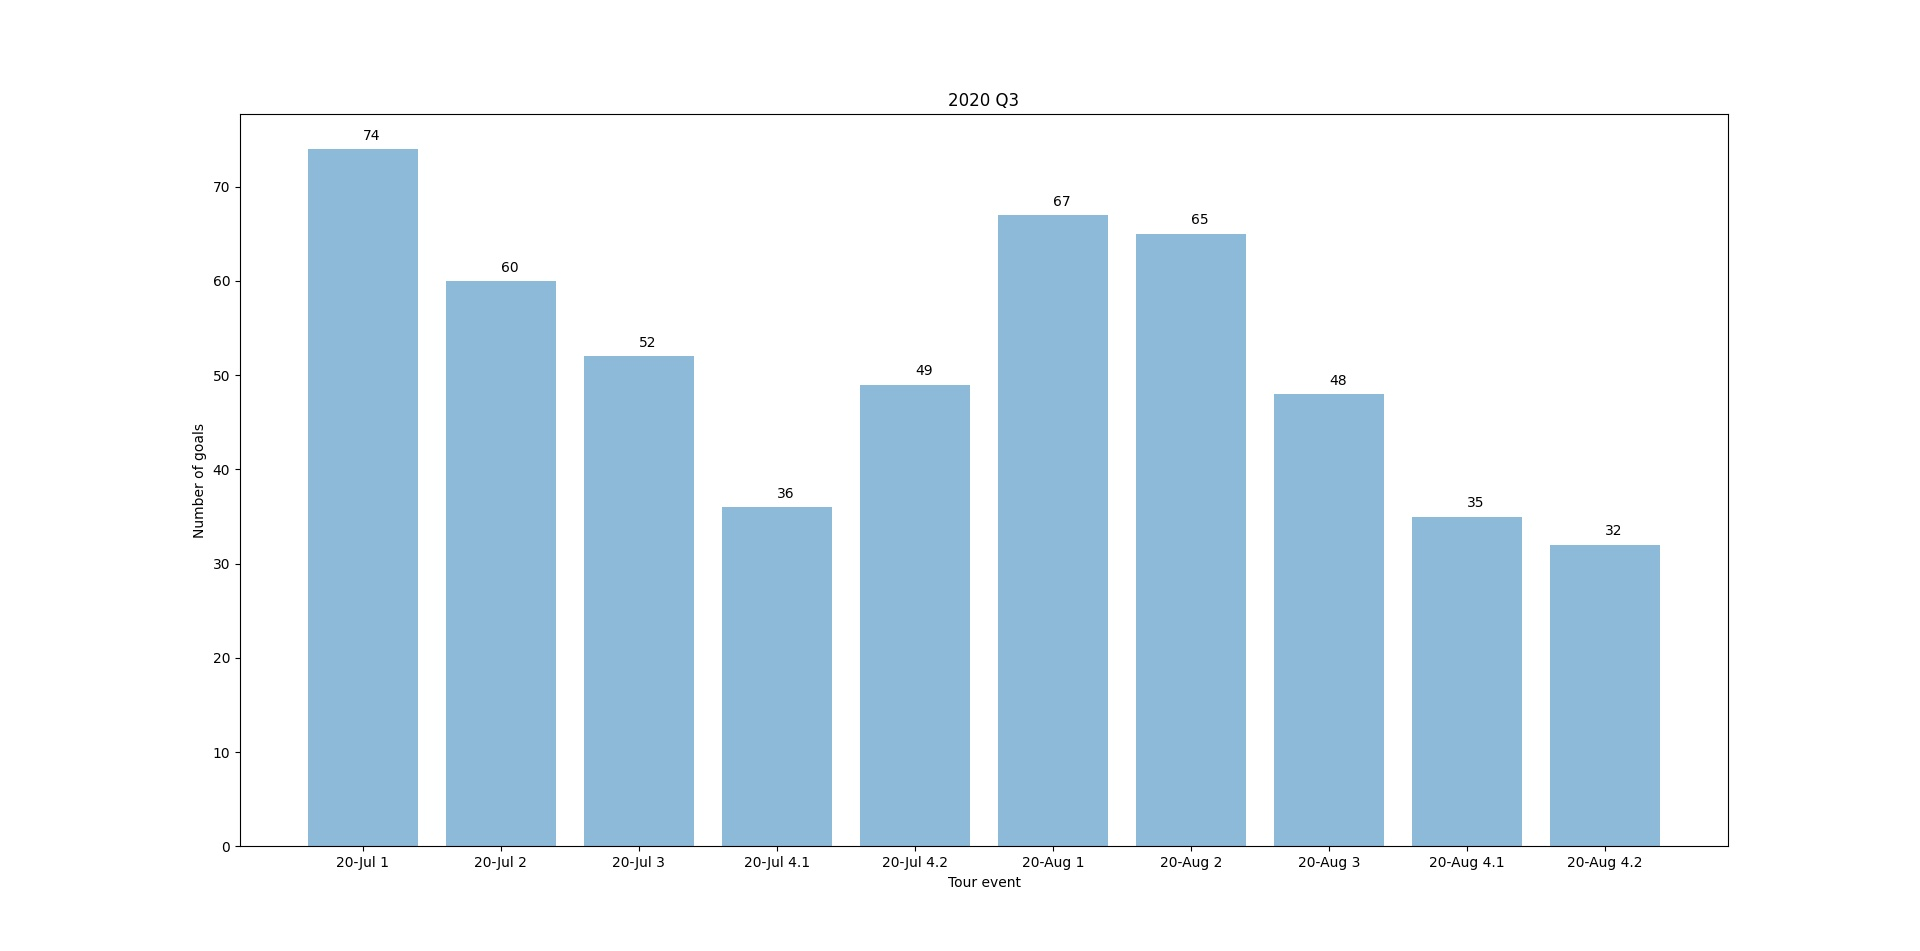
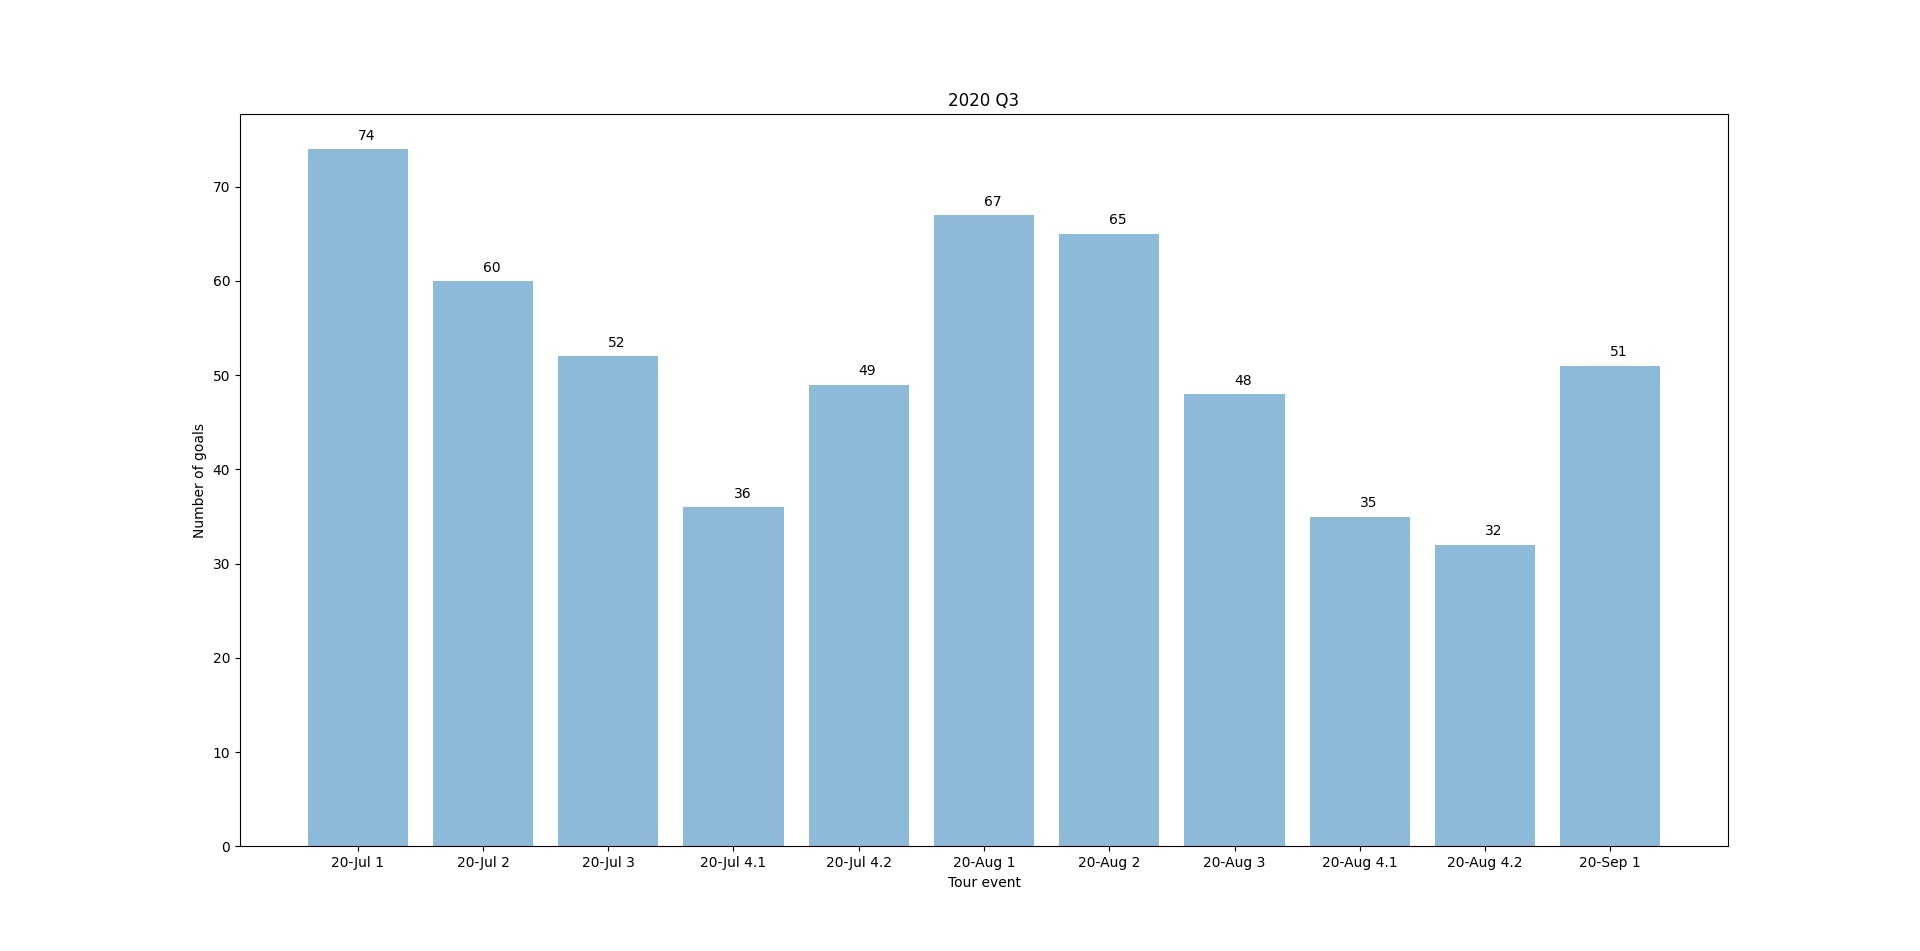
Sep1 content add

Changed region(s): [[0.1562, 0.1525, 0.875, 0.9148]]

diff --git a/tour_complete.py b/tour_complete.py
@@ -31,4 +31,5 @@ tour_complete = {
 	"20-Aug 3": 48,
 	"20-Aug 4.1": 35,
 	"20-Aug 4.2": 32,
+	"20-Sep 1": 51,
 }

diff --git a/tour_2020_Q3.py b/tour_2020_Q3.py
@@ -9,4 +9,5 @@ tour_2020_Q3 = {
 	"20-Aug 3": 48,
 	"20-Aug 4.1": 35,
 	"20-Aug 4.2": 32,
+	"20-Sep 1": 51,
 }
